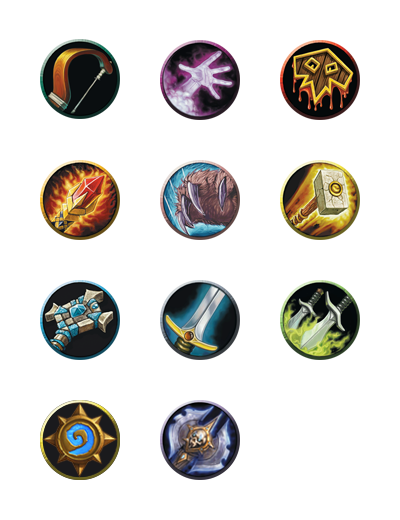
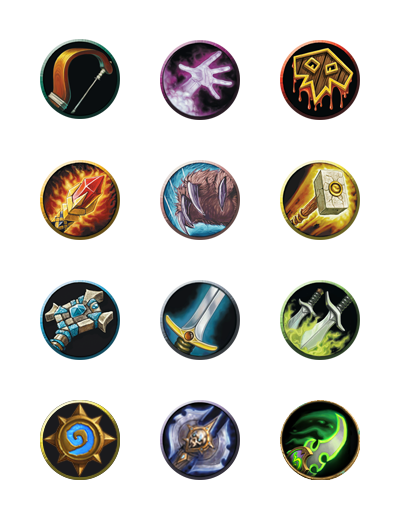
add new HS class demon hunter

Changed region(s): [[0.69, 0.7692, 0.9, 0.9231]]

diff --git a/src/components/settings/MyHeroes.vue b/src/components/settings/MyHeroes.vue
@@ -4,10 +4,10 @@
 
         <div class="row myHeroes">
             <div class="row" v-for="(hsClass, key) in classes" v-if="key">
-                <div class="col-xs-3 col-md-2">
+                <div class="col-xs-4 col-md-2">
                     <class-card :hsClass="hsClass" />
                 </div>
-                <div class="col-xs-7 col-xs-offset-1 col-md-offset-2 myHeroesPicker">
+                <div class="col-xs-7 col-md-9 col-xs-offset-1 col-md-offset-1 myHeroesPicker">
                     <enhanced-check-radio :label="getHeroesDisplayForClass(key)"
                                           :value="heroesForClass(key)"
                                           :name="key + '_hero_pick'"
@@ -16,8 +16,6 @@
                                           subClass="default" :animate="true" :inline="true" :rounded="true">
                     </enhanced-check-radio>
                 </div>
-            </div>
-            <div class="col-xs-1">
             </div>
         </div>
 
@@ -66,6 +64,6 @@
 
 <style scoped>
     .myHeroesPicker {
-        text-align: justify;
+        text-align: left;
     }
 </style>

diff --git a/src/store/modules/deck.js b/src/store/modules/deck.js
@@ -18,6 +18,7 @@ const USE_REPRESENTATIVE_CARD = true
 const state = {
   own: {},
   myHeroes: {
+    'demon_hunter': 'illidan',
     'druid': 'malfurion',
     'hunter': 'rexxar',
     'mage': 'jaina',

diff --git a/src/components/hsClass/ClassPick.vue b/src/components/hsClass/ClassPick.vue
@@ -105,5 +105,9 @@
             background-position: -280px -280px;
         }
 
+        &.demon_hunter::before {
+            background-position: -280px -400px;
+        }
+
     }
 </style>

diff --git a/src/components/hsClass/ClassCard.vue b/src/components/hsClass/ClassCard.vue
@@ -75,4 +75,8 @@
   background-position: -160px -400px;
 }
 
+.hero-demon_hunter {
+  background-position: -280px -400px;
+}
+
 </style>

diff --git a/src/components/hsClass/ClassSpread.vue b/src/components/hsClass/ClassSpread.vue
@@ -32,7 +32,4 @@
 
 
 <style lang="scss" scoped>
-    .col-xs-3 {
-        width: 20%;
-    }
 </style>
